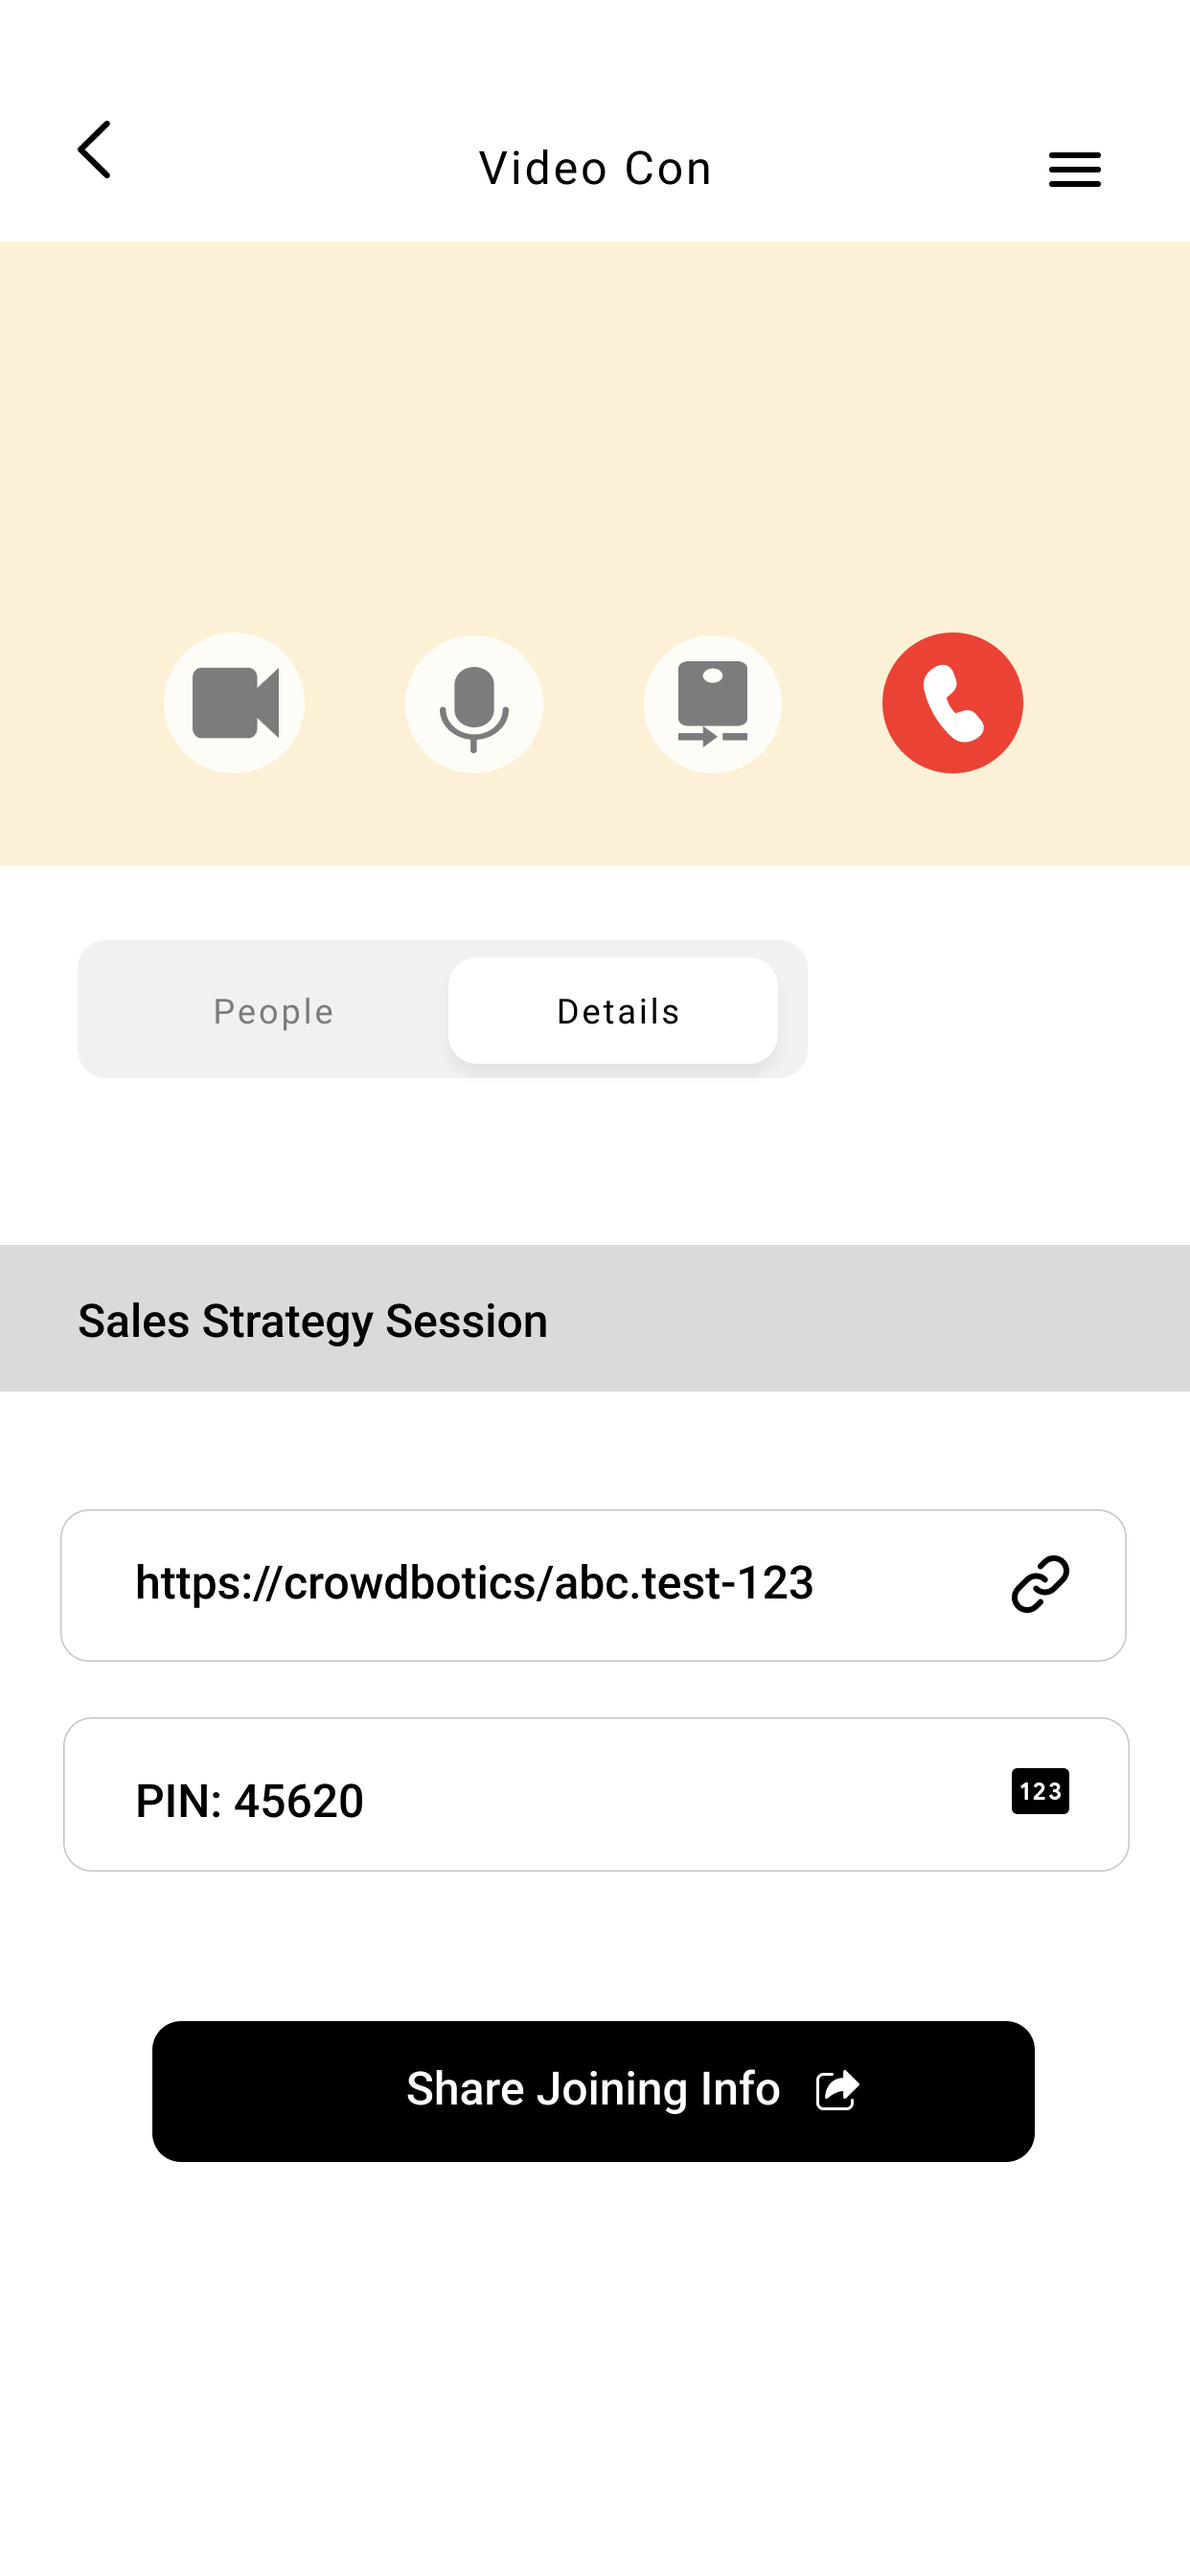
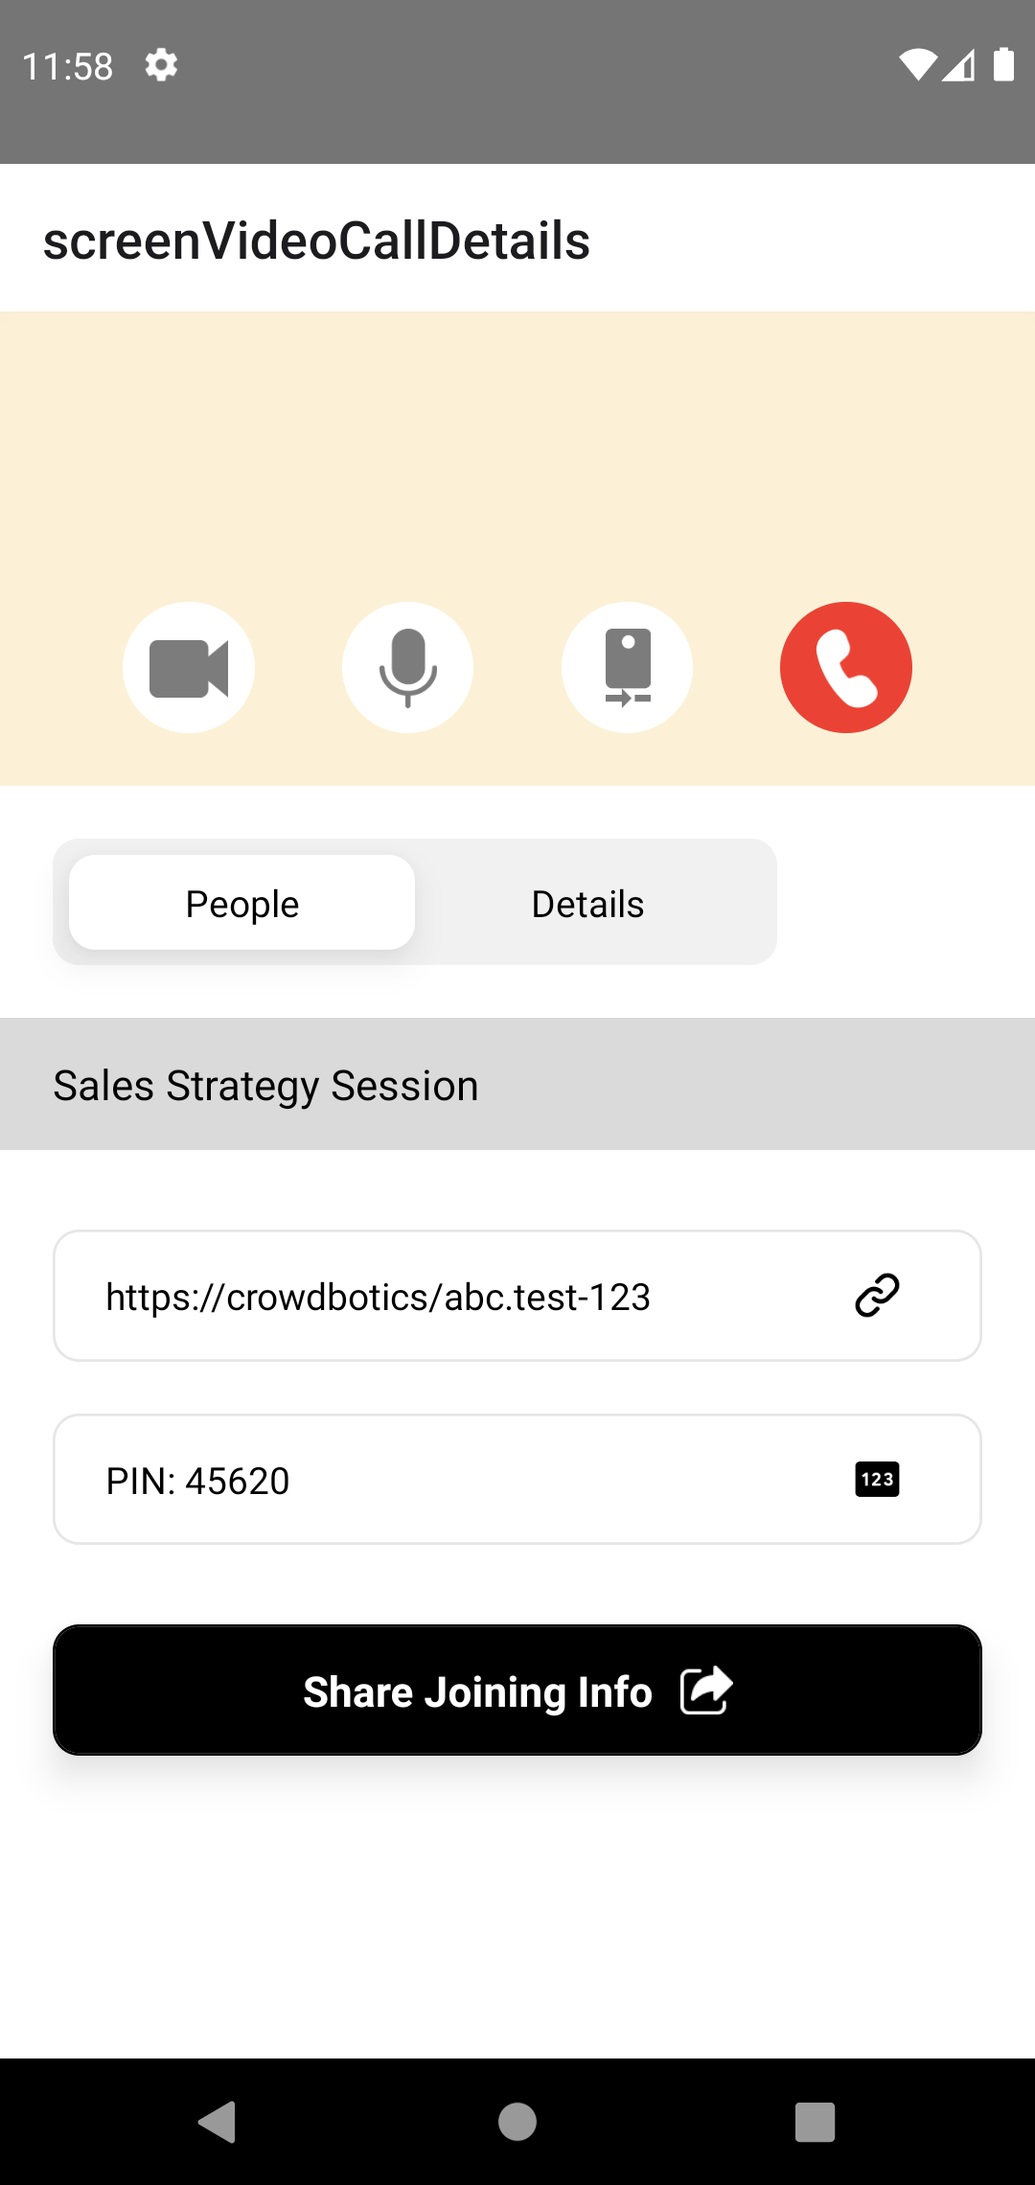
video call details screen added

diff --git a/screens/screen-video-call-details/index.js b/screens/screen-video-call-details/index.js
@@ -1,14 +1,78 @@
-import React from "react";
+import React, { useState, useEffect } from "react";
 import {
   Text,
   View,
-  StyleSheet
+  StyleSheet,
+  Image,
+  Pressable,
+  TextInput
 } from "react-native";
 
 const VideoCallDetails = () => {
+  const [selectedTab, setSelectedTab] = useState(0);
+  const [meetingDetails, setMeetingDetails] = useState({});
+  useEffect(() => {
+    setMeetingDetails({
+      title: "Sales Strategy Session",
+      pin: 45620,
+      url: "https://crowdbotics/abc.test-123"
+    });
+  }, []);
   return (
     <View style={styles.container}>
-      <Text style={styles.heading}>Video Call Details</Text>
+      <View style={styles.header}>
+        <View style={styles.roundIconContainer}>
+          <Image
+            source={require("./assets/videoIcon.png")}
+            style={styles.icon}
+          />
+        </View>
+        <View style={styles.roundIconContainer}>
+          <Image
+            source={require("./assets/voiceIcon.png")}
+            style={styles.icon}
+          />
+        </View>
+        <View style={styles.roundIconContainer}>
+          <Image
+            source={require("./assets/phoneIcon.png")}
+            style={styles.icon}
+          />
+        </View>
+        <View style={[styles.roundIconContainer, styles.redBg]}>
+          <Image
+            source={require("./assets/callIcon.png")}
+            style={styles.icon}
+          />
+        </View>
+      </View>
+      <TabView
+        tabTitles={["People", "Details"]}
+        selected={selectedTab}
+        onPress={setSelectedTab}
+        style={styles.tabView}
+      />
+      <View style={styles.separator}>
+        <Text style={styles.separatorText}>{meetingDetails.title}</Text>
+      </View>
+      <Input
+        value={meetingDetails.url}
+        editable={false}
+        icon={require("./assets/linkIcon.png")}
+        containerStyle={styles.input}
+      />
+      <Input
+        value={"PIN: " + meetingDetails.pin}
+        editable={false}
+        icon={require("./assets/pinIcon.png")}
+        containerStyle={styles.input}
+      />
+      <Button buttonText="Share Joining Info" style={styles.button}>
+        <Image
+          source={require("./assets/shareIcon.png")}
+          style={styles.btnIcon}
+        />
+      </Button>
     </View>
   );
 };
@@ -19,7 +83,302 @@ const styles = StyleSheet.create({
   },
   heading: {
     fontSize: 20
+  },
+  header: {
+    justifyContent: "space-around",
+    alignItems: "flex-end",
+    backgroundColor: "#FCF1D6",
+    height: 180,
+    flexDirection: "row",
+    paddingHorizontal: 30,
+    paddingVertical: 20
+  },
+  roundIconContainer: {
+    width: 50,
+    height: 50,
+    backgroundColor: "#fff",
+    borderRadius: 25,
+    justifyContent: "center",
+    alignItems: "center"
+  },
+  icon: {
+    width: 30,
+    height: 30,
+    resizeMode: "contain"
+  },
+  redBg: {
+    backgroundColor: "#EA4335"
+  },
+  tabView: {
+    marginVertical: 20,
+    marginHorizontal: 20,
+    width: "70%"
+  },
+  separator: {
+    height: 50,
+    backgroundColor: "#DADADA",
+    justifyContent: "center",
+    paddingHorizontal: 20,
+    marginBottom: 20
+  },
+  separatorText: {
+    fontSize: 16
+  },
+  input: {
+    marginHorizontal: 20
+  },
+  button: {
+    marginHorizontal: 20,
+    marginVertical: 20
+  },
+  btnIcon: {
+    width: 20,
+    height: 20,
+    resizeMode: "contain",
+    marginLeft: 10
   }
 });
 
 export default VideoCallDetails;
+
+const TabView = ({
+  tabTitles,
+  selected,
+  onPress,
+  tabColor,
+  backgroundColor,
+  style,
+  icons
+}) => {
+  const tabColorStyle = {
+    backgroundColor: tabColor ? tabColor : "#fff"
+  };
+  const backgroundColorStyle = {
+    backgroundColor: backgroundColor ? backgroundColor : "#F1F1F1"
+  };
+  const propStyle = style ? style : {};
+  return (
+    <View
+      style={[tabViewStyles.paletteContainer, backgroundColorStyle, propStyle]}>
+      {tabTitles.map((title, index) => (
+        <Pressable
+          onPress={() => (onPress ? onPress(index) : null)}
+          style={
+            index === selected
+              ? [tabViewStyles.selected, tabColorStyle, tabViewStyles.tabItem]
+              : [
+                  tabViewStyles.unSelected,
+                  backgroundColorStyle,
+                  tabViewStyles.tabItem
+                ]
+          }
+          key={index}>
+          {icons ? (
+            <Image
+              source={icons[index]}
+              style={[
+                tabViewStyles.icon,
+                index === selected
+                  ? tabViewStyles.selectedIcon
+                  : tabViewStyles.unSelectedIcon
+              ]}
+            />
+          ) : null}
+          <Text>{title}</Text>
+        </Pressable>
+      ))}
+    </View>
+  );
+};
+
+const tabViewStyles = StyleSheet.create({
+  paletteContainer: {
+    height: 48,
+    backgroundColor: "#E4E4E4",
+    flexDirection: "row",
+    alignItems: "center",
+    borderRadius: 10,
+    padding: 6,
+    marginVertical: 10
+  },
+  tabItem: {
+    borderRadius: 10,
+    flex: 1,
+    height: "100%",
+    justifyContent: "center",
+    alignItems: "center",
+    flexDirection: "row"
+  },
+  selected: {
+    shadowColor: "rgba(0, 0, 0, 0.5)",
+    elevation: 10,
+    shadowOffset: {
+      width: 0,
+      height: 2
+    },
+    shadowOpacity: 0.2,
+    shadowRadius: 5
+  },
+  unSelected: {
+    backgroundColor: "#f1f1f1"
+  },
+  icon: {
+    width: 20,
+    height: 20,
+    resizeMode: "contain",
+    marginRight: 5
+  },
+  selectedIcon: {
+    tintColor: "#000"
+  },
+  unSelectedIcon: {
+    tintColor: "#7C7C7C"
+  }
+});
+
+const Input = props => {
+  return (
+    <View style={[inputStyles.inputContainer, props.containerStyle]}>
+      {props.text ? (
+        <Text style={inputStyles.inputText}>{props.text}</Text>
+      ) : null}
+
+      <TextInput
+        style={[
+          inputStyles.input,
+          props.style,
+          props.textArea ? inputStyles.textArea : null
+        ]}
+        placeholder={props.placeholder ? props.placeholder : "Enter"}
+        value={props.value}
+        onChangeText={() => props.onChange()}
+        placeholderTextColor={
+          props.placeholderTextColor ? props.placeholderTextColor : "#9B9B9B"
+        }
+        editable={props.editable !== false}
+        autoCapitalize="none"
+        autoCorrect={false}
+        multiline={props.textArea ? true : false}
+        backgroundColor={props.backgroundColor}
+        secureTextEntry={props.secureTextEntry}
+      />
+      {props.errorText ? (
+        <Text style={inputStyles.error}>{props.errorText}</Text>
+      ) : null}
+      {props.icon ? (
+        <Pressable
+          onPress={() => props.iconOnPress()}
+          style={inputStyles.iconWithText}>
+          <Image source={props.icon} style={inputStyles.icon} />
+        </Pressable>
+      ) : null}
+      <View style={styles.children}>{props.children}</View>
+    </View>
+  );
+};
+
+const inputStyles = StyleSheet.create({
+  inputContainer: {
+    flexDirection: "column",
+    justifyContent: "center"
+  },
+  inputText: {
+    fontSize: 14,
+    marginLeft: 20,
+    color: "#111112"
+  },
+  input: {
+    borderWidth: 1,
+    borderColor: "#e6e6e6",
+    borderRadius: 10,
+    padding: 10,
+    paddingLeft: 20,
+    marginVertical: 10,
+    width: "100%",
+    height: 50,
+    color: "#000"
+  },
+  iconWithText: {
+    position: "absolute",
+    right: 30,
+    bottom: 25,
+    width: 20,
+    height: 20,
+    justifyContent: "center",
+    alignItems: "center",
+    zIndex: 1
+  },
+  icon: {
+    width: "100%",
+    height: "100%",
+    resizeMode: "contain"
+  },
+  textArea: {
+    height: 150
+  },
+  children: {}
+});
+
+const Button = params => {
+  const backgroundColor = params.backgroundColor || "#000";
+  const textColor = params.textColor || "#fff";
+  const btnStyle = {
+    backgroundColor: backgroundColor,
+    borderColor: params.borderColor || backgroundColor,
+    borderWidth: 1
+  };
+  const btnText = {
+    color: textColor
+  };
+  return (
+    <View style={[buttonStyles.btnContainer, params.style]}>
+      <View style={!params.hideShadow ? buttonStyles.shadowContainer : null}>
+        <Pressable
+          style={[buttonStyles.btn, btnStyle]}
+          onPress={params.onPress}>
+          <Text style={[buttonStyles.btnText, btnText]}>
+            {params.buttonText}
+          </Text>
+          <View style={styles.childrenContainer}>{params.children}</View>
+        </Pressable>
+      </View>
+    </View>
+  );
+};
+
+const buttonStyles = StyleSheet.create({
+  btnContainer: {
+    justifyContent: "center"
+  },
+  shadowContainer: {
+    shadowColor: "rgba(0, 0, 0, 0.5)",
+    shadowOffset: {
+      width: 0,
+      height: 5
+    },
+    shadowOpacity: 0.5,
+    shadowRadius: 10,
+    elevation: 10,
+    backgroundColor: "#fff",
+    borderRadius: 10
+  },
+  btn: {
+    height: 50,
+    padding: 10,
+    paddingHorizontal: 25,
+    borderRadius: 10,
+    justifyContent: "center",
+    alignItems: "center",
+
+    flexDirection: "row"
+  },
+  btnText: {
+    color: "#fff",
+    fontSize: 16,
+    fontWeight: "bold"
+  },
+  childrenContainer: {
+    justifyContent: "center",
+    alignItems: "center"
+  }
+});

diff --git a/modules/index.js b/modules/index.js
@@ -2,7 +2,7 @@ import mods from "./*/index.js";
 import { getModules } from "./modules.js";
 
 export const modules = getModules(mods);
-export const initialRoute = "screenTravelTickets";
+export const initialRoute = "screenVideoCallDetails";
 // export const initialRoute = modules[0].value.title;
 export const slices = modules
   .filter(mod => mod.value.slice)
